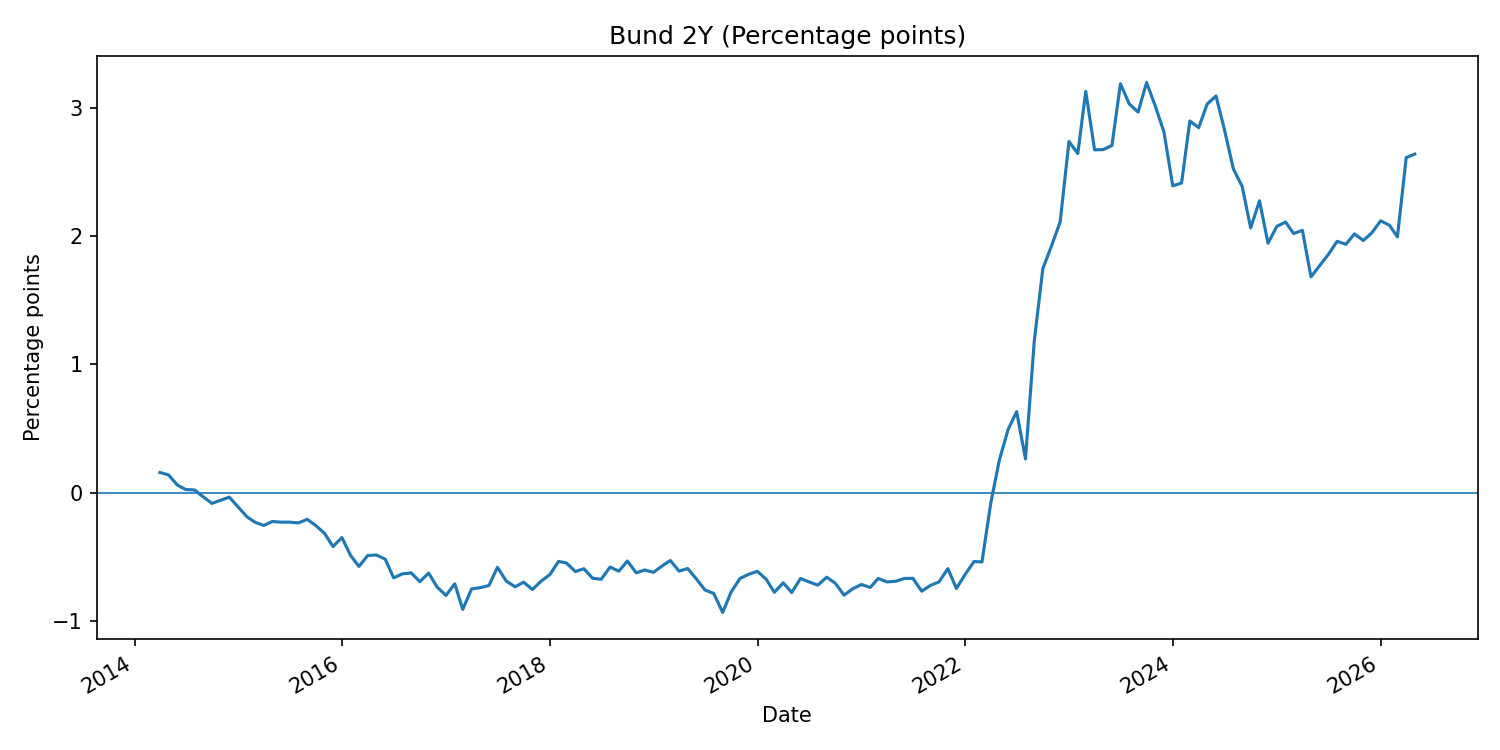
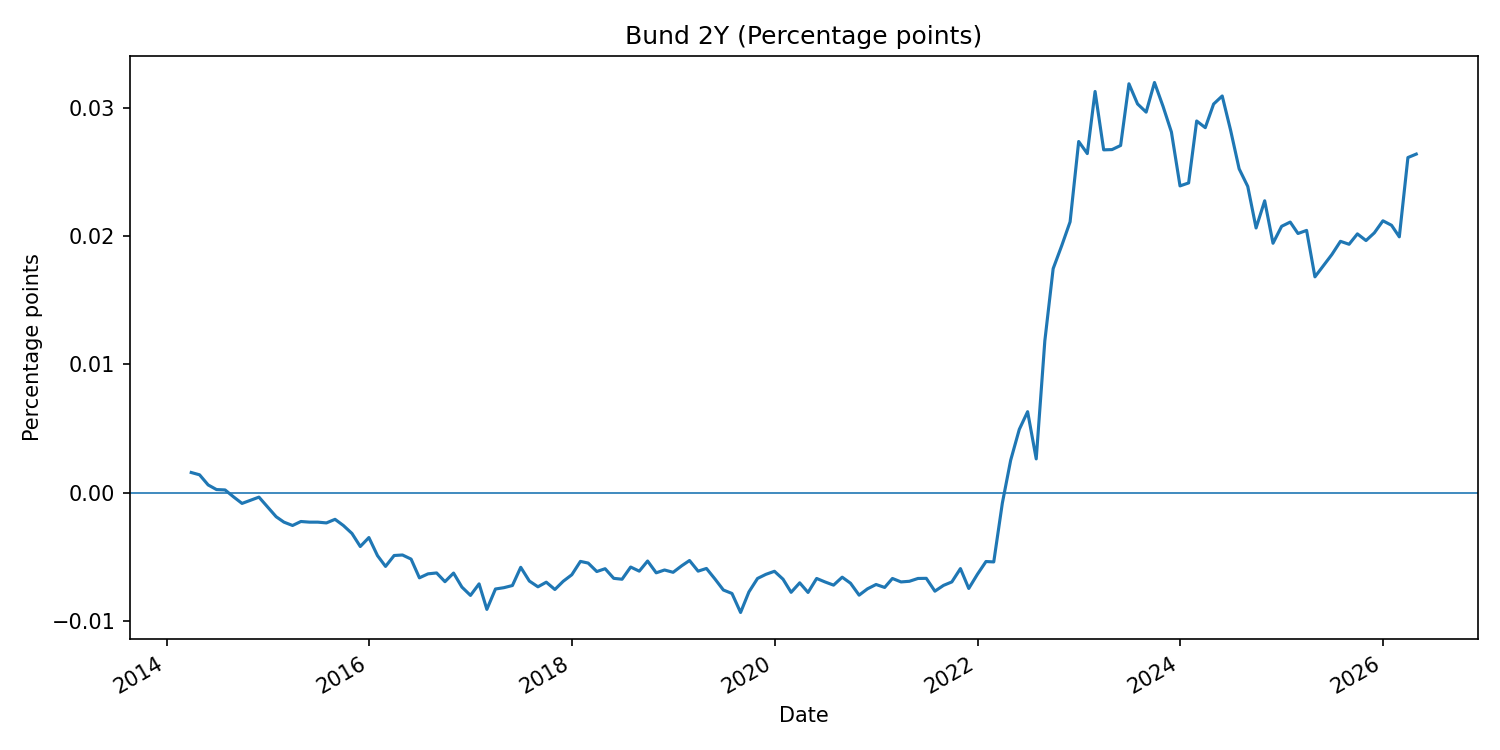
Refresh generated analysis outputs

diff --git a/output/pre_model_report.md b/output/pre_model_report.md
@@ -13,7 +13,7 @@ Zero and negative value checks:
 
 ```csv
 variable,observations,first_observation,last_observation,missing_values,zero_values,negative_values,minimum,minimum_date,maximum,maximum_date,mean,median,standard_deviation
-Bund 2Y,146,2014-03-31,2026-04-30,0,0,92,-0.933,2019-08-31,3.198,2023-09-30,0.3877534246575342,-0.487,1.3892951056220677
+Bund 2Y,146,2014-03-31,2026-04-30,0,0,92,-0.00933,2019-08-31,0.03198,2023-09-30,0.0038775342465753,-0.00487,0.0138929510562206
 CPI EU,146,2014-03-31,2026-04-30,0,1,7,-0.005,2015-01-31,0.115,2022-10-31,0.0254383561643835,0.0175,0.0273450424436438
 ```
 
@@ -47,7 +47,7 @@ TTF_ret,"Log return, decimal form",145,0.0053508147619274,0.0074815131436705,0.1
 Brent_ret,"Log return, decimal form",145,0.000388825046507,0.012323128173624,0.1205662584484731,-0.7982438091599007,0.4903356742252684,-0.2295462802326778,-0.1665901942857977,-0.0580802466763827,0.0588516259067457,0.1579224623219771,0.2929776839552463,-1.4912241119171734,14.197830329071714,1181.9378369133244,2.215438700511247e-257,Log returns are stored in decimal form where applicable.
 Power_ret,"Log return, decimal form",145,0.0058609108524385,0.0045493396631539,0.0568807963859778,-0.2791247722440557,0.1792624535833837,-0.1724248626563859,-0.0727408546296061,-0.0216591625114146,0.0305274010677187,0.0930485151643018,0.1480535682054258,-0.7550340733709373,5.204375606091542,163.6619405733727,2.892418666975334e-36,Log returns are stored in decimal form where applicable.
 IP_growth,"Log growth, decimal form",145,0.0006931235975888,0.0010085729548849,0.0257534063625594,-0.2042244496781755,0.1235163743644847,-0.0766774792897743,-0.0180005578201608,-0.0042780813910781,0.008080852053939,0.0217211626640636,0.0691207654861026,-3.112719981734122,33.79258513578501,6649.144975240552,0.0,Log returns are stored in decimal form where applicable.
-Bund2Y_change_bps,Basis points,145,1.711724137931034,0.1999999999999779,18.56253882692638,-45.50000000000001,92.0,-39.712,-25.18000000000001,-6.799999999999995,7.000000000000001,43.399999999999785,62.24799999999999,1.4312849475258254,5.523795135671991,217.8151669907091,5.0354402906719226e-48,Log returns are stored in decimal form where applicable.
+Bund2Y_change_bps,Basis points,145,0.0171172413793103,0.0019999999999999,0.1856253882692641,-0.4550000000000002,0.92,-0.3971199999999999,-0.2518000000000019,-0.0679999999999899,0.07000000000001,0.4339999999999978,0.6224800000000001,1.4312849475258194,5.5237951356719694,217.8151669907073,5.0354402906764725e-48,Log returns are stored in decimal form where applicable.
 CPI_yoy_level,Percentage points,146,0.0254383561643835,0.0175,0.0273450424436438,-0.005,0.115,-0.00255,0.00025,0.0069999999999999,0.027,0.0975,0.1101,1.7584499529078492,2.455082238848806,106.75358746101998,6.587991363346598e-24,Log returns are stored in decimal form where applicable.
 CPI_yoy_change,Percentage points,145,0.0001793103448275,0.0,0.0039750418682582,-0.016,0.016,-0.01224,-0.005,-0.0019999999999999,0.002,0.0069999999999998,0.00912,-0.2319343827138114,3.833363729945385,82.26477064183604,1.3690900922934693e-18,Log returns are stored in decimal form where applicable.
 CISS_level,Index level,146,0.1079869863013698,0.0572,0.133156761783944,0.0013,0.696,0.0013,0.002875,0.014475,0.1431,0.377425,0.6339950000000008,2.093706952677506,5.006586776643157,244.40452052436723,8.476814744552348e-54,Log returns are stored in decimal form where applicable.
@@ -86,8 +86,8 @@ IP_growth,2020-04-30,-0.2042244496781755,-7.956911423324392,-21.99203352142152,a
 IP_growth,2020-05-31,0.1235163743644847,4.769204082666809,13.127495958837812,abs_z_score_gt_3;abs_modified_z_score_gt_3_5
 IP_growth,2020-06-30,0.0886581455791519,3.4156655140365237,9.392213370737734,abs_z_score_gt_3;abs_modified_z_score_gt_3_5
 IP_growth,2020-07-31,0.0442550090040398,1.691499943470844,4.634132748585365,abs_modified_z_score_gt_3_5
-Bund2Y_change_bps,2022-03-31,45.9,2.380508198478243,4.403521428571447,abs_modified_z_score_gt_3_5
-Bund2Y_change_bps,2022-07-31,-36.8,-2.074701337839996,-3.5652142857142963,abs_modified_z_score_gt_3_5
+Bund2Y_change_bps,2022-03-31,0.4589999999999999,2.380508198478239,4.40352142857207,abs_modified_z_score_gt_3_5
+Bund2Y_change_bps,2022-07-31,-0.368,-2.074701337839993,-3.565214285714804,abs_modified_z_score_gt_3_5
 ```
 ... 102 additional rows in the CSV file.
 
@@ -161,9 +161,9 @@ data_model_diff,IP_growth,Phillips-Perron,unit root,-12.104048465731427,1.987793
 data_model_diff,IP_growth,KPSS,stationarity around a constant,0.0906778634441104,0.1,24,145,Fail to reject stationarity at 5%,"The test statistic is outside of the range of p-values available in the
 look-up table. The actual p-value is greater than the p-value returned.
 ",0.739,0.463,0.347
-data_model_diff,Bund2Y_change_bps,ADF,unit root,-11.80935727615836,8.936928428304546e-22,0,144,Reject unit root; stationary at 5%,,-3.476597917537401,-2.8818291230495543,-2.5775887982253085
-data_model_diff,Bund2Y_change_bps,Phillips-Perron,unit root,-12.67923827996716,1.1969972535507364e-23,14,144,Reject unit root; stationary at 5%,,-3.476597917537401,-2.8818291230495543,-2.5775887982253085
-data_model_diff,Bund2Y_change_bps,KPSS,stationarity around a constant,0.3157299150108292,0.1,4,145,Fail to reject stationarity at 5%,"The test statistic is outside of the range of p-values available in the
+data_model_diff,Bund2Y_change_bps,ADF,unit root,-11.8093572761584,8.936928428302814e-22,0,144,Reject unit root; stationary at 5%,,-3.476597917537401,-2.8818291230495543,-2.5775887982253085
+data_model_diff,Bund2Y_change_bps,Phillips-Perron,unit root,-12.67923827996719,1.196997253550556e-23,14,144,Reject unit root; stationary at 5%,,-3.476597917537401,-2.8818291230495543,-2.5775887982253085
+data_model_diff,Bund2Y_change_bps,KPSS,stationarity around a constant,0.315729915010829,0.1,4,145,Fail to reject stationarity at 5%,"The test statistic is outside of the range of p-values available in the
 look-up table. The actual p-value is greater than the p-value returned.
 ",0.739,0.463,0.347
 data_model_diff,CISS_change,ADF,unit root,-11.29205172500748,1.3721355447529522e-20,1,143,Reject unit root; stationary at 5%,,-3.4769274060112707,-2.8819726324025625,-2.577665408088415
@@ -198,7 +198,7 @@ data_model_diff,CPI_yoy_change,6,99.32499421500296,3.4702751325276804e-19,no aut
 data_model_diff,CPI_yoy_change,12,128.4599382902375,1.2571446269600148e-21,no autocorrelation up to tested lag,Reject no-autocorrelation at 5%
 data_model_diff,IP_growth,6,21.254016198416014,0.0016514129762086,no autocorrelation up to tested lag,Reject no-autocorrelation at 5%
 data_model_diff,IP_growth,12,23.906066443149232,0.0209476808226593,no autocorrelation up to tested lag,Reject no-autocorrelation at 5%
-data_model_diff,Bund2Y_change_bps,12,29.264368307893108,0.0035989001458133,no autocorrelation up to tested lag,Reject no-autocorrelation at 5%
+data_model_diff,Bund2Y_change_bps,12,29.264368307892905,0.0035989001458135,no autocorrelation up to tested lag,Reject no-autocorrelation at 5%
 data_model_diff,CISS_change,6,16.026691108341048,0.0136114205462476,no autocorrelation up to tested lag,Reject no-autocorrelation at 5%
 data_model_diff,CISS_change,12,24.397733289792505,0.0179493078105154,no autocorrelation up to tested lag,Reject no-autocorrelation at 5%
 data_model_diff,GreenEquity_relative,6,14.328395839026449,0.0261753609549642,no autocorrelation up to tested lag,Reject no-autocorrelation at 5%
@@ -228,22 +228,22 @@ dataset,method,relationship,variable_1,variable_2,correlation,abs_correlation
 data_model_diff,pearson,TTF - Power,TTF_ret,Power_ret,0.2716458038487437,0.2716458038487437
 data_model_diff,pearson,TTF - Brent,TTF_ret,Brent_ret,0.164125323977503,0.164125323977503
 data_model_diff,pearson,Power - CPI,Power_ret,CPI_yoy_change,0.2879659399383766,0.2879659399383766
-data_model_diff,pearson,CPI - Bund 2Y,CPI_yoy_change,Bund2Y_change_bps,0.1988549363456898,0.1988549363456898
+data_model_diff,pearson,CPI - Bund 2Y,CPI_yoy_change,Bund2Y_change_bps,0.1988549363456888,0.1988549363456888
 data_model_diff,pearson,Green equity - green bond,GreenEquity_relative,GreenBond_relative,-0.0665937686561339,0.0665937686561339
 data_model_diff,spearman,TTF - Power,TTF_ret,Power_ret,0.2608290033065659,0.2608290033065659
 data_model_diff,spearman,TTF - Brent,TTF_ret,Brent_ret,0.1302432687765706,0.1302432687765706
 data_model_diff,spearman,Power - CPI,Power_ret,CPI_yoy_change,0.2772987178422206,0.2772987178422206
-data_model_diff,spearman,CPI - Bund 2Y,CPI_yoy_change,Bund2Y_change_bps,0.1097834924017489,0.1097834924017489
+data_model_diff,spearman,CPI - Bund 2Y,CPI_yoy_change,Bund2Y_change_bps,0.1099446509680388,0.1099446509680388
 data_model_diff,spearman,Green equity - green bond,GreenEquity_relative,GreenBond_relative,-0.1340497559439458,0.1340497559439458
 data_model_levels,pearson,TTF - Power,TTF_ret,Power_ret,0.2716458038487437,0.2716458038487437
 data_model_levels,pearson,TTF - Brent,TTF_ret,Brent_ret,0.164125323977503,0.164125323977503
 data_model_levels,pearson,Power - CPI,Power_ret,CPI_yoy_level,0.3316762435493738,0.3316762435493738
-data_model_levels,pearson,CPI - Bund 2Y,CPI_yoy_level,Bund2Y_change_bps,0.3814830093781031,0.3814830093781031
+data_model_levels,pearson,CPI - Bund 2Y,CPI_yoy_level,Bund2Y_change_bps,0.3814830093781017,0.3814830093781017
 data_model_levels,pearson,Green equity - green bond,GreenEquity_relative,GreenBond_relative,-0.0665937686561339,0.0665937686561339
 data_model_levels,spearman,TTF - Power,TTF_ret,Power_ret,0.2608290033065659,0.2608290033065659
 data_model_levels,spearman,TTF - Brent,TTF_ret,Brent_ret,0.1302432687765706,0.1302432687765706
 data_model_levels,spearman,Power - CPI,Power_ret,CPI_yoy_level,0.2430748284399493,0.2430748284399493
-data_model_levels,spearman,CPI - Bund 2Y,CPI_yoy_level,Bund2Y_change_bps,0.2204134077097933,0.2204134077097933
+data_model_levels,spearman,CPI - Bund 2Y,CPI_yoy_level,Bund2Y_change_bps,0.2209181815902314,0.2209181815902314
 data_model_levels,spearman,Green equity - green bond,GreenEquity_relative,GreenBond_relative,-0.1340497559439458,0.1340497559439458
 ```
 
@@ -257,7 +257,7 @@ Condition number diagnostics:
 
 ```csv
 dataset,condition_number,singular_values,note
-data_model_diff,2.252606233305136,17.44668346;14.54578517;12.59874787;12.30903402;11.87725349;11.47519337;10.48447248;9.799821908;9.224748563;7.745110175,Variables were standardized temporarily only for this diagnostic.
+data_model_diff,2.2526062333051358,17.44668346;14.54578517;12.59874787;12.30903402;11.87725349;11.47519337;10.48447248;9.799821908;9.224748563;7.745110175,Variables were standardized temporarily only for this diagnostic.
 data_model_levels,2.194284276897807,16.8006725;16.35975102;12.89766199;12.54130921;11.71559703;11.40336777;9.824074379;9.339322809;8.173829964;7.656561494,Variables were standardized temporarily only for this diagnostic.
 ```
 